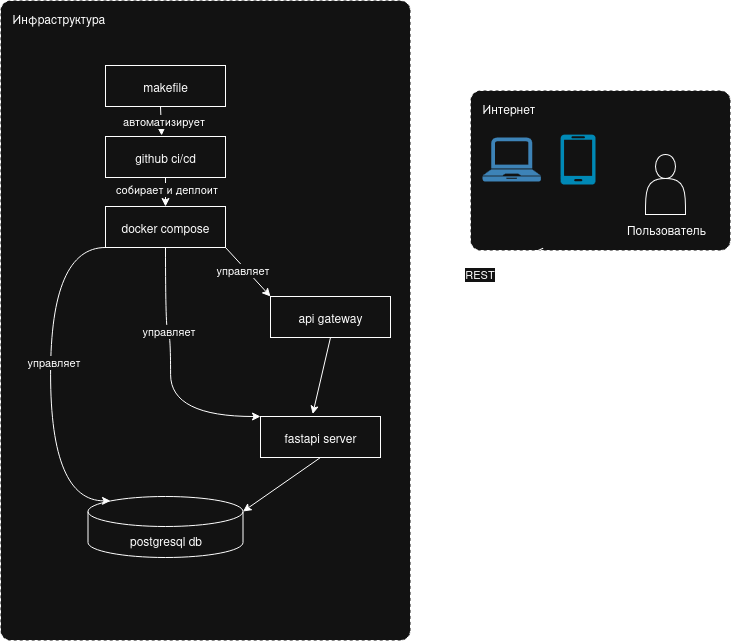
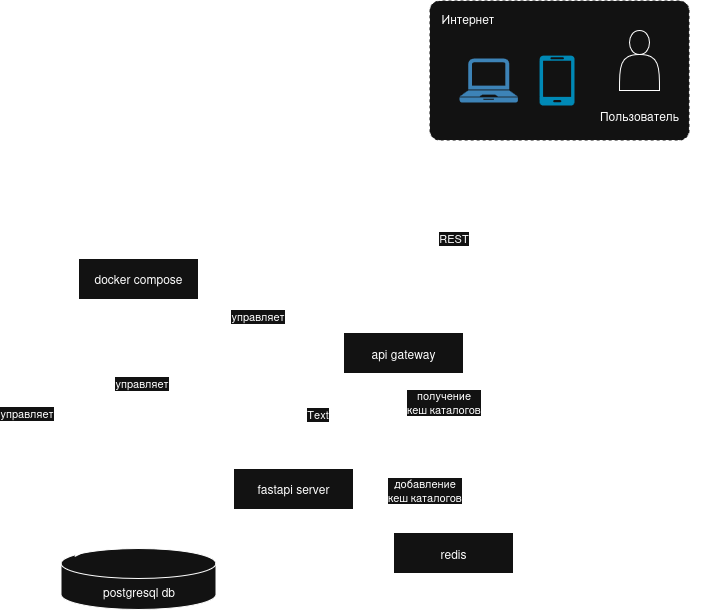
update make; make other minor changes;

diff --git a/server/main.py b/server/main.py
@@ -6,10 +6,12 @@ from fastapi.responses import RedirectResponse
 from fastapi.templating import Jinja2Templates
 from markupsafe import Markup
 from sqlmodel.ext.asyncio.session import AsyncSession
+from starlette.responses import HTMLResponse
 
-from server import crud, redis_
+from server import crud
+from server.crud import get_categories_cached
 from server.db import engine
-from server.schema import Category, CategoryCreate, CategoryTree
+from server.schema import Category, CategoryCreate
 from server.settings import Settings
 
 settings = Settings()
@@ -29,22 +31,22 @@ def health():
     return {"status": "ok"}
 
 
-@app.get("/")
-async def index(
-    request: Request,
-    session: AsyncSession = Depends(get_session),
+@app.post("/add")
+async def add_category(
+        name: str = Form(...),
+        parent_id: Optional[str] = Form(None),
+        session: AsyncSession = Depends(get_session),
 ):
-    cached = await redis_.redis_client.get("categories")
-    if cached:
-        raw_categories = json.loads(cached)
-        categories = [CategoryTree(**item) for item in raw_categories]
-    else:
-        categories: List[CategoryTree] = await crud.get_categories_tree_orm(
-            session,
-        )
-        categories_json = json.dumps([cat.model_dump() for cat in categories])
-        await redis_.redis_client.set("categories", categories_json)
+    pid = int(parent_id) if parent_id else None
 
+    category = CategoryCreate(name=name, parent_id=pid)
+    await crud.create_category(session, category)
+    return RedirectResponse("/", status_code=303)
+
+
+@app.get("/", response_class=HTMLResponse)
+async def index(request: Request, session: AsyncSession = Depends(get_session)):
+    categories = await get_categories_cached(session)
     return templates.TemplateResponse(
         "index.html",
         {
@@ -55,41 +57,15 @@ async def index(
     )
 
 
-@app.post("/add")
-async def add_category(
-    name: str = Form(...),
-    parent_id: Optional[str] = Form(None),
-    session: AsyncSession = Depends(get_session),
-):
-    pid = int(parent_id) if parent_id else None
-
-    category = CategoryCreate(name=name, parent_id=pid)
-    await crud.create_category(session, category)
-    return RedirectResponse("/", status_code=303)
-
-
-@app.get("/category/{category_id}")
+@app.get("/category/{category_id}", response_class=HTMLResponse)
 async def view_category(
-    request: Request,
-    category_id: int,
-    session: AsyncSession = Depends(get_session),
+        request: Request,
+        category_id: int,
+        session: AsyncSession = Depends(get_session),
 ):
     current_category = await session.get(Category, category_id)
-
-    cached = await redis_.redis_client.get("categories")
-
-    if cached:
-        raw_categories = json.loads(cached)
-        categories = [CategoryTree(**item) for item in raw_categories]
-    else:
-        categories: List[CategoryTree] = await crud.get_categories_tree_orm(
-            session,
-        )
-        categories_json = json.dumps([cat.model_dump() for cat in categories])
-        await redis_.redis_client.set("categories", categories_json)
-
+    categories = await get_categories_cached(session)
     breadcrumbs = await crud.get_breadcrumbs(categories, category_id)
-
     return templates.TemplateResponse(
         "category.html",
         {
@@ -102,9 +78,9 @@ async def view_category(
 
 @app.post("/category/{category_id}/update")
 async def update_category(
-    category_id: int,
-    name: str = Form(...),
-    session: AsyncSession = Depends(get_session),
+        category_id: int,
+        name: str = Form(...),
+        session: AsyncSession = Depends(get_session),
 ):
     await crud.update_category(session, category_id, name)
     return RedirectResponse(f"/category/{category_id}", status_code=303)
@@ -112,8 +88,8 @@ async def update_category(
 
 @app.post("/category/{category_id}/delete")
 async def delete_category(
-    category_id: int,
-    session: AsyncSession = Depends(get_session),
+        category_id: int,
+        session: AsyncSession = Depends(get_session),
 ):
     await crud.delete_category(session, category_id)
     return RedirectResponse("/", status_code=303)

diff --git a/server/crud.py b/server/crud.py
@@ -1,9 +1,7 @@
 import functools
+import json
 from typing import List
 
-from sqlalchemy import Integer, func, join, select
-from sqlalchemy.dialects.postgresql import array
-from sqlalchemy.orm import aliased
 from sqlmodel.ext.asyncio.session import AsyncSession
 
 from server import redis_
@@ -45,50 +43,52 @@ async def create_category(
     return category
 
 
-async def get_categories_tree_orm(
-    session: AsyncSession,
-) -> List[CategoryTree]:
-    cte = (
-        select(
-            Category.id,
-            Category.name,
-            Category.parent_id,
-            func.cast(0, Integer).label("level"),
-            array([Category.id]).label("path"),
+from sqlalchemy import text
+
+async def get_categories_tree_orm(session: AsyncSession) -> List[CategoryTree]:
+    raw_sql = text("""
+        WITH RECURSIVE "CategoryTree"(id, name, parent_id, level, path) AS (
+            SELECT
+                id,
+                name,
+                parent_id,
+                0 AS level,
+                ARRAY[id] AS path
+            FROM category
+            WHERE parent_id IS NULL
+
+            UNION ALL
+
+            SELECT
+                c.id,
+                c.name,
+                c.parent_id,
+                ct.level + 1,
+                ct.path || c.id
+            FROM category c
+            JOIN "CategoryTree" ct ON c.parent_id = ct.id
         )
-        .where(Category.parent_id.is_(None))
-        .cte(name="CategoryTree", recursive=True)
-    )
+        SELECT id, name, parent_id, level
+        FROM "CategoryTree"
+        ORDER BY path;
+    """)
 
-    c = aliased(Category, name="c")
-    ct = aliased(cte, name="ct")
+    result = await session.exec(raw_sql)
+    rows = result.mappings().all()
 
-    recursive_part = select(
-        c.id,
-        c.name,
-        c.parent_id,
-        (ct.c.level + 1).label("level"),
-        ct.c.path.concat(array([c.id])).label("path"),
-    ).select_from(join(c, ct, c.parent_id == ct.c.id))
+    return [CategoryTree(**row) for row in rows]
 
-    cte = cte.union_all(recursive_part)
 
-    full_query = select(
-        cte.c.id, cte.c.name, cte.c.parent_id, cte.c.level, cte.c.path
-    ).order_by(cte.c.path)
-
-    result = await session.exec(full_query)
-    rows = result.all()
-
-    return [
-        CategoryTree(
-            id=row.id,
-            name=row.name,
-            parent_id=row.parent_id,
-            level=row.level,
-        )
-        for row in rows
-    ]
+async def get_categories_cached(session: AsyncSession) -> List[CategoryTree]:
+    cached = await redis_.redis_client.get("categories")
+    if cached:
+        raw_categories = json.loads(cached)
+        categories = [CategoryTree(**item) for item in raw_categories]
+    else:
+        categories = await get_categories_tree_orm(session)
+        categories_json = json.dumps([cat.model_dump() for cat in categories])
+        await redis_.redis_client.set("categories", categories_json)
+    return categories
 
 
 @delete_cache

diff --git a/server/tests/unit/test_appointments_api.py b/server/tests/unit/test_appointments_api.py
@@ -1,6 +1,14 @@
 import pytest
+from httpx import ASGITransport, AsyncClient
+
+from server.main import app
 
 
 @pytest.mark.anyio
 async def test_root():
-    pass
+    async with AsyncClient(
+        transport=ASGITransport(app=app), base_url="http://test"
+    ) as ac:
+        response = await ac.get("/health")
+    assert response.status_code == 200
+    assert response.json() == {"status": "ok"}

diff --git a/README.md b/README.md
@@ -1,0 +1,85 @@
+# Category project
+
+## Содержание
+
+1. [Описание](#1-описание)
+2. [Переменные среды](#2-переменные-среды)
+3. [Эндпоинты](#3-эндпоинты)
+4. [Диаграммы](#4-диаграммы)
+
+## 1. Описание
+
+Полноценный микросервис для добавления и отображения категорий.
+
+Для вывода категорий (как на главной, так и на вложенных страницах) используется рекурсивный CTE-запрос в PostgreSQL.
+
+Базовый запрос:
+```postgresql
+SELECT id,
+       name,
+       parent_id,
+       0          AS level,
+       ARRAY [id] AS path
+FROM category
+WHERE parent_id IS NULL
+```
+
+Рекурсивная часть:
+
+в ней мы получаем корневые элементы.
+Начиная от корневых элементов, рекурсией мы проходимся до листьев дерева,
+Одновременно с этим формируется `path` — массив, содержащий путь от корня до текущего элемента. 
+Это важно, чтобы не перепутать категории с одинаковыми названиями, но разными родителями:
+
+```postgresql
+SELECT c.id,
+       c.name,
+       c.parent_id,
+       ct.level + 1,
+       ct.path || c.id
+FROM category c
+         JOIN "CategoryTree" ct ON c.parent_id = ct.id
+```
+
+Мы храним результат данного запроса в `redis`, пока не произойдёт изменение данных. 
+При удалении, изменении, добавлении, - кэш очищается. Он появится при следующей
+загрузке страницы. 
+
+
+Ниже приведён список `Makefile` команд. Для запуска нужно находится в корневой папке  
+и перед каждой командой прописать `make`. Например, `make up` для запуска compose'а.
+
+| Название команды | Краткое описание                     |
+|-----------------:|:-------------------------------------|
+|             lint | Проверка isort, black, flake8        |
+|             test | запуск тестов                        |
+|          migrate | применить миграции из папки versions |
+|               up | запустить compose                    |
+|             down | остановить compose                   |
+
+## 2. Переменные среды
+
+Переменные среды
+
+| Секрет/перменная среды | Значение по умолчанию | Краткое описание      |
+|-----------------------:|:----------------------|-----------------------|
+|                DB_HOST | db                    | адрес контейнера с бд |
+|                DB_PORT | 5432                  | порт базы данных      |
+|            POSTGRES_DB | dbname                | название базы данных  |
+|          POSTGRES_USER | username              | пользователь бд       |
+|      POSTGRES_PASSWORD | password              | пароль бд             |
+|              REDIS_URL | redis://redis:6379/0  | адрес redis           |
+
+## 3. Эндпоинты
+
+- `GET /health` - проверка, не упал ли сервер;
+- `GET /` - первая страница с деревом категорий;
+- `GET /category/{category_id}` - вторая страница с положением категории в каталоге;
+- `POST /add` - добавить категорию;
+- `POST /category/{category_id}/update` - обновить имя категории;
+- `POST /category/{category_id}/delete` - удалить категорию;
+
+## 4. Диаграммы
+
+Архитектурная схема `/diagrams/architecture.pdf`  
+ER-диаграмма `/diagrams/er.png`
